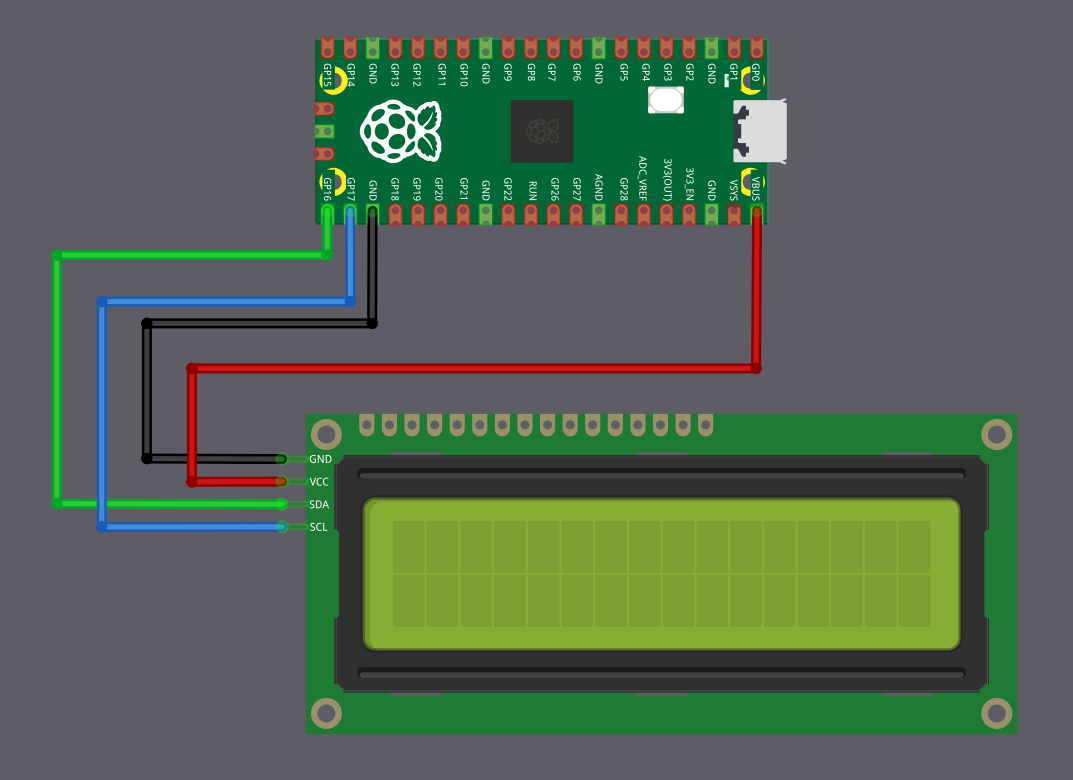
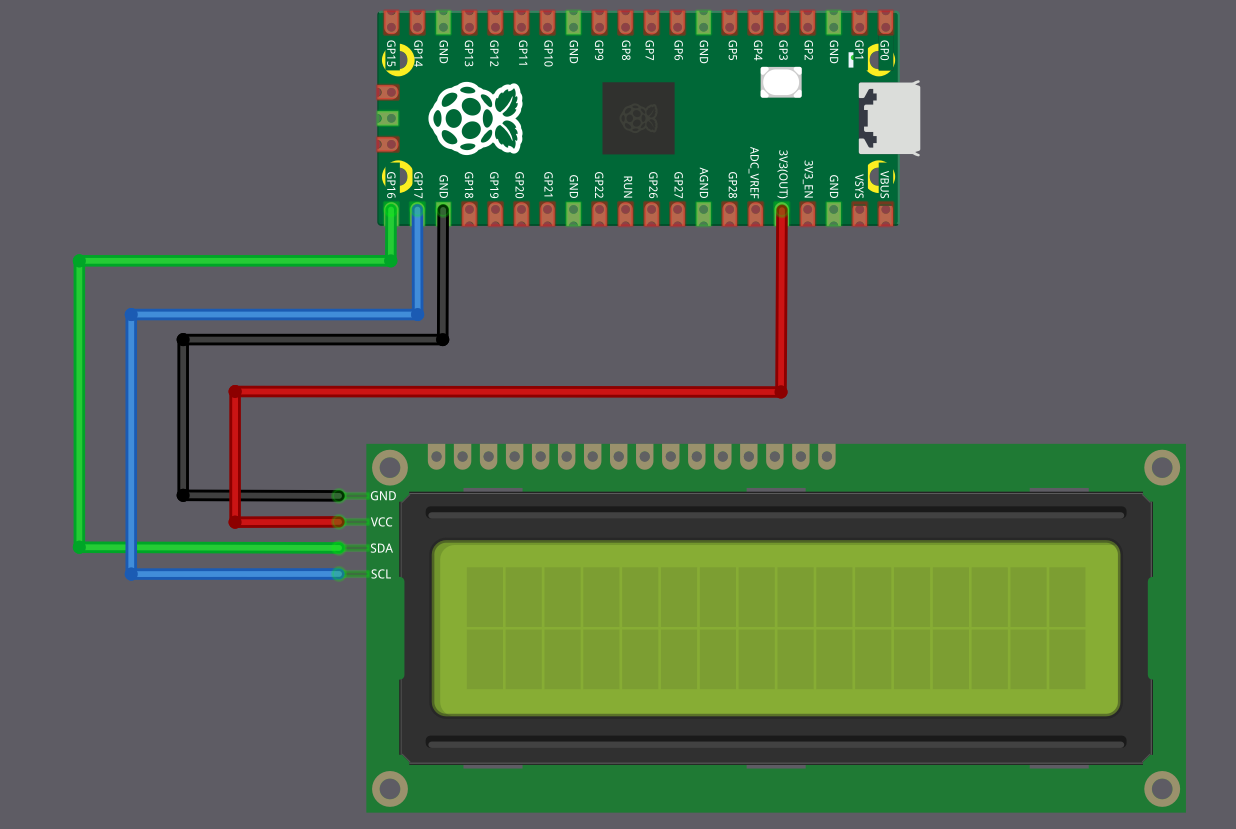
lcd module - voltage warning and level shifter

Changed region(s): [[0.0308, 0.0, 0.9842, 0.9846]]

diff --git a/src/lcd-display/circuit.md b/src/lcd-display/circuit.md
@@ -1,6 +1,30 @@
 # Connecting LCD Display (LCD1602) to the Raspberry Pi Pico
 
-We will connect the LCD1602 with an I2C adapter to the Raspberry Pi Pico using the default I2C pins.  Only four connections are required: power, ground, SDA, and SCL.
+We are going to connect an LCD1602 character display fitted with an I2C adapter to the Raspberry Pi Pico. From a wiring point of view, the setup looks simple because only four connections are required: power, ground, SDA, and SCL.  However, even though the wiring count is small, there is an important voltage detail that we must handle correctly before making any connections.
+
+## Voltage compatibility problem
+
+The Raspberry Pi Pico uses 3.3 V logic on all GPIO pins. These pins are not 5 V tolerant. Anything significantly above 3.3 V on SDA or SCL can damage the Pico, either immediately or gradually over time.
+
+Most LCD1602 modules with an I2C backpack are designed to run at 5 V. The I2C backpack usually has pull-up resistors connected to its supply voltage. When powered at 5 V, this means SDA and SCL idle at 5 V.
+
+If SDA and SCL from such a module are connected directly to the Pico, the Pico GPIO pins will be exposed to 5 V. This is the core problem we must address.
+
+## A commonly suggested shortcut you will see online
+
+Many online tutorials suggest powering the LCD1602 and its I2C backpack from 5 V and connecting SDA and SCL directly to the Pico.  I have tested this setup myself, and it does work. However, it is electrically unsafe, and long-term use can damage the Pico GPIO pins.
+
+For this reason, even though it functions, this wiring method should not be considered safe or recommended.
+
+## The lazy but reasonably safe approach: power everything at 3.3 V
+
+For demos, experiments, and learning projects, the simplest and safest approach is to power the LCD1602 I2C module from the Pico 3.3 V rail instead of 5 V.
+
+When the LCD backpack is powered at 3.3 V, its I2C pull-up resistors pull SDA and SCL to 3.3 V instead of 5 V. This immediately removes the voltage compatibility problem, and SDA and SCL can be connected directly to the Pico.
+
+The trade-off is that the LCD contrast and backlight brightness will be reduced. In most indoor environments, the display remains readable and is usually more than adequate for demonstrations and testing.
+
+This approach avoids extra components, and avoids stressing the Pico GPIO pins.
 
 <table>
   <thead>
@@ -31,8 +55,8 @@ We will connect the LCD1602 with an I2C adapter to the Raspberry Pi Pico using t
           <div class="male-right"></div>
         </div>
       </td>
-      <td>VBUS</td>
-      <td>5V power supply for the LCD</td>
+      <td>3.3V</td>
+      <td>3.3 power supply for the LCD</td>
     </tr>
     <tr>
       <td>SCL</td>
@@ -63,3 +87,174 @@ We will connect the LCD1602 with an I2C adapter to the Raspberry Pi Pico using t
 
 <img style="display: block; margin: auto;" alt="lcd1602" src="./images/connecting-pico-with-lcd-display-lcd1602.png"/>
 
+## Best approach: Using a level shifter
+
+If you need full backlight brightness, or if your LCD module does not work reliably at 3.3 V, then you must power it at 5 V. But this means you need to protect your Pico from the 5V signals.
+
+The solution is a bidirectional logic level converter (also called a level shifter). This small module converts signals between 3.3 volts and 5 volts in both directions. You can find these as "2-Channel" or "4-Channel I2C/SPI Logic Level Converter" modules.
+
+The Pico connects to the 3.3V side of the level shifter, the LCD connects to the 5V side. The level shifter makes sure the Pico only ever sees 3.3V signals, while the LCD gets the 5V signals it needs.
+
+This is the electrically correct and safe method, but it adds a few extra wires and requires an additional module.
+
+<br/>
+<img style="display: block; margin: auto;" alt="lcd1602" src="./images/raspberry-pi-pico-2-lcd-1602-level-shifter.png"/>
+
+The circuit diagram may look a little confusing at first glance, but the idea is simple once you break it down.
+
+First, connect the Pico 3.3 V output to the pin marked LV(Low Voltage) on the level shifter. Connect the Pico VBUS (5 V) to the pin marked HV(High Voltage) on the level shifter. The LCD VCC pin is also powered directly from the Pico VBUS pin. Ground must be common, so connect Pico GND, the level shifter GND, and the LCD GND together.
+
+Now coming to the I2C lines. The Pico pins must always connect to the pins on the level shifter marked LVx, and the LCD pins must always connect to the corresponding pins marked HVx. Pico GPIO 16 (SDA) connects to LV1, and the LCD SDA pin connects to HV1. Pico GPIO 17 (SCL) connects to LV2, and the LCD SCL pin connects to HV2.
+
+<h3>Power Connections (Connect These First)</h3>
+<table>
+  <thead>
+    <tr>
+      <th style="width: 180px;">From</th>
+      <th style="width: 120px;">Pin</th>
+      <th style="width: 160px; text-align: center;">Wire</th>
+      <th style="width: 180px;">To</th>
+      <th style="width: 120px;">Pin</th>
+      <th>Purpose</th>
+    </tr>
+  </thead>
+  <tbody>
+    <tr>
+      <td>Raspberry Pi Pico</td>
+      <td>GND</td>
+      <td style="text-align: center; vertical-align: middle; padding: 0;">
+        <div class="wire black" style="width: 140px; margin: 0 auto;">
+          <div class="male-left"></div>
+          <div class="male-right"></div>
+        </div>
+      </td>
+      <td>Level Shifter</td>
+      <td>GND</td>
+      <td>Common ground</td>
+    </tr>
+    <tr>
+      <td>Level Shifter</td>
+      <td>GND</td>
+      <td style="text-align: center; vertical-align: middle; padding: 0;">
+        <div class="wire black" style="width: 140px; margin: 0 auto;">
+          <div class="male-left"></div>
+          <div class="male-right"></div>
+        </div>
+      </td>
+      <td>LCD Display</td>
+      <td>GND</td>
+      <td>Common ground</td>
+    </tr>
+    <tr>
+      <td>Raspberry Pi Pico</td>
+      <td>3.3V</td>
+      <td style="text-align: center; vertical-align: middle; padding: 0;">
+        <div class="wire red" style="width: 140px; margin: 0 auto;">
+          <div class="male-left"></div>
+          <div class="male-right"></div>
+        </div>
+      </td>
+      <td>Level Shifter</td>
+      <td>LV</td>
+      <td>Low voltage power (3.3V side)</td>
+    </tr>
+    <tr>
+      <td>Raspberry Pi Pico</td>
+      <td>VBUS (5V)</td>
+      <td style="text-align: center; vertical-align: middle; padding: 0;">
+        <div class="wire red" style="width: 140px; margin: 0 auto;">
+          <div class="male-left"></div>
+          <div class="male-right"></div>
+        </div>
+      </td>
+      <td>Level Shifter</td>
+      <td>HV</td>
+      <td>High voltage power (5V side)</td>
+    </tr>
+    <tr>
+      <td>Raspberry Pi Pico</td>
+      <td>VBUS (5V)</td>
+      <td style="text-align: center; vertical-align: middle; padding: 0;">
+        <div class="wire red" style="width: 140px; margin: 0 auto;">
+          <div class="male-left"></div>
+          <div class="male-right"></div>
+        </div>
+      </td>
+      <td>LCD Display</td>
+      <td>VCC</td>
+      <td>5V power supply for the LCD</td>
+    </tr>
+  </tbody>
+</table>
+
+<h3>Data Connections (I2C Communication)</h3>
+<table>
+  <thead>
+    <tr>
+      <th style="width: 180px;">From</th>
+      <th style="width: 120px;">Pin</th>
+      <th style="width: 160px; text-align: center;">Wire</th>
+      <th style="width: 180px;">To</th>
+      <th style="width: 120px;">Pin</th>
+      <th>Purpose</th>
+    </tr>
+  </thead>
+  <tbody>
+    <tr>
+      <td>Raspberry Pi Pico</td>
+      <td>GPIO 16</td>
+      <td style="text-align: center; vertical-align: middle; padding: 0;">
+        <div class="wire green" style="width: 140px; margin: 0 auto;">
+          <div class="male-left"></div>
+          <div class="male-right"></div>
+        </div>
+      </td>
+      <td>Level Shifter</td>
+      <td>LV1</td>
+      <td>SDA (Data) - Pico side</td>
+    </tr>
+    <tr>
+      <td>Level Shifter</td>
+      <td>HV1</td>
+      <td style="text-align: center; vertical-align: middle; padding: 0;">
+        <div class="wire green" style="width: 140px; margin: 0 auto;">
+          <div class="male-left"></div>
+          <div class="male-right"></div>
+        </div>
+      </td>
+      <td>LCD Display</td>
+      <td>SDA</td>
+      <td>SDA (Data) - LCD side</td>
+    </tr>
+    <tr>
+      <td>Raspberry Pi Pico</td>
+      <td>GPIO 17</td>
+      <td style="text-align: center; vertical-align: middle; padding: 0;">
+        <div class="wire blue" style="width: 140px; margin: 0 auto;">
+          <div class="male-left"></div>
+          <div class="male-right"></div>
+        </div>
+      </td>
+      <td>Level Shifter</td>
+      <td>LV2</td>
+      <td>SCL (Clock) - Pico side</td>
+    </tr>
+    <tr>
+      <td>Level Shifter</td>
+      <td>HV2</td>
+      <td style="text-align: center; vertical-align: middle; padding: 0;">
+        <div class="wire blue" style="width: 140px; margin: 0 auto;">
+          <div class="male-left"></div>
+          <div class="male-right"></div>
+        </div>
+      </td>
+      <td>LCD Display</td>
+      <td>SCL</td>
+      <td>SCL (Clock) - LCD side</td>
+    </tr>
+  </tbody>
+</table>
+
+### How it works?
+
+In simple terms, when the Pico communicates over an I2C line, the LVx side operates at 3.3 V, and the level shifter presents a 5 V signal on the matching HVx side for the LCD. When the LCD communicates at 5 V, the level shifter translates that signal back so the Pico only ever sees 3.3 V on the LVx side. This way, both devices operate at their required voltages without stressing the Pico GPIO pins.

diff --git a/src/lcd-display/index.md b/src/lcd-display/index.md
@@ -45,6 +45,16 @@ There is also additional overhead when using the parallel interface, such as set
 
 We will need an LCD1602 display. A 16x2 module with an I2C adapter is recommended so you can follow along without adjustments, although other sizes behave the same way.
 
+### Level Shifter
+
+<img style="display: block; margin: auto;width:400px;" alt="lcd1602 I2C" src="./images/4 Channel (I2C or SPI) 3.3V-5V Bi-Directional Logic Level Converter.jpg"/>
+
+Pico GPIO pins are 3.3 V tolerant, which means they are not safe to use with 5 V signals. Applying a higher voltage, such as 5 V, to these pins can damage the board. Many LCD1602 displays with an I2C adapter are designed to operate at 5 V, which creates a voltage mismatch when connecting them directly to the Pico.
+
+To connect the Pico and the LCD safely, we need to handle this voltage difference. This is where a level shifter is used. A bidirectional I2C logic level shifter allows 3.3 V and 5 V devices to communicate safely and protects the Pico GPIO pins. These modules are inexpensive and are commonly sold as "4 Channel (I2C) 3.3V-5V Bi-Directional Logic Level Converter".
+
+Alternatively, you can power the LCD with 3.3 V. This avoids the voltage issue, but the display backlight and contrast will be noticeably dimmer.
+
 ## Datasheet
 - You can access the datasheet for the HD44780 from [Sparkfun](https://www.sparkfun.com/datasheets/LCD/HD44780.pdf) or [MIT site](https://academy.cba.mit.edu/classes/output_devices/44780.pdf)
 - [LCD Driver Data Book](https://www.crystalfontz.com/controllers/datasheet-viewer.php?id=433)
